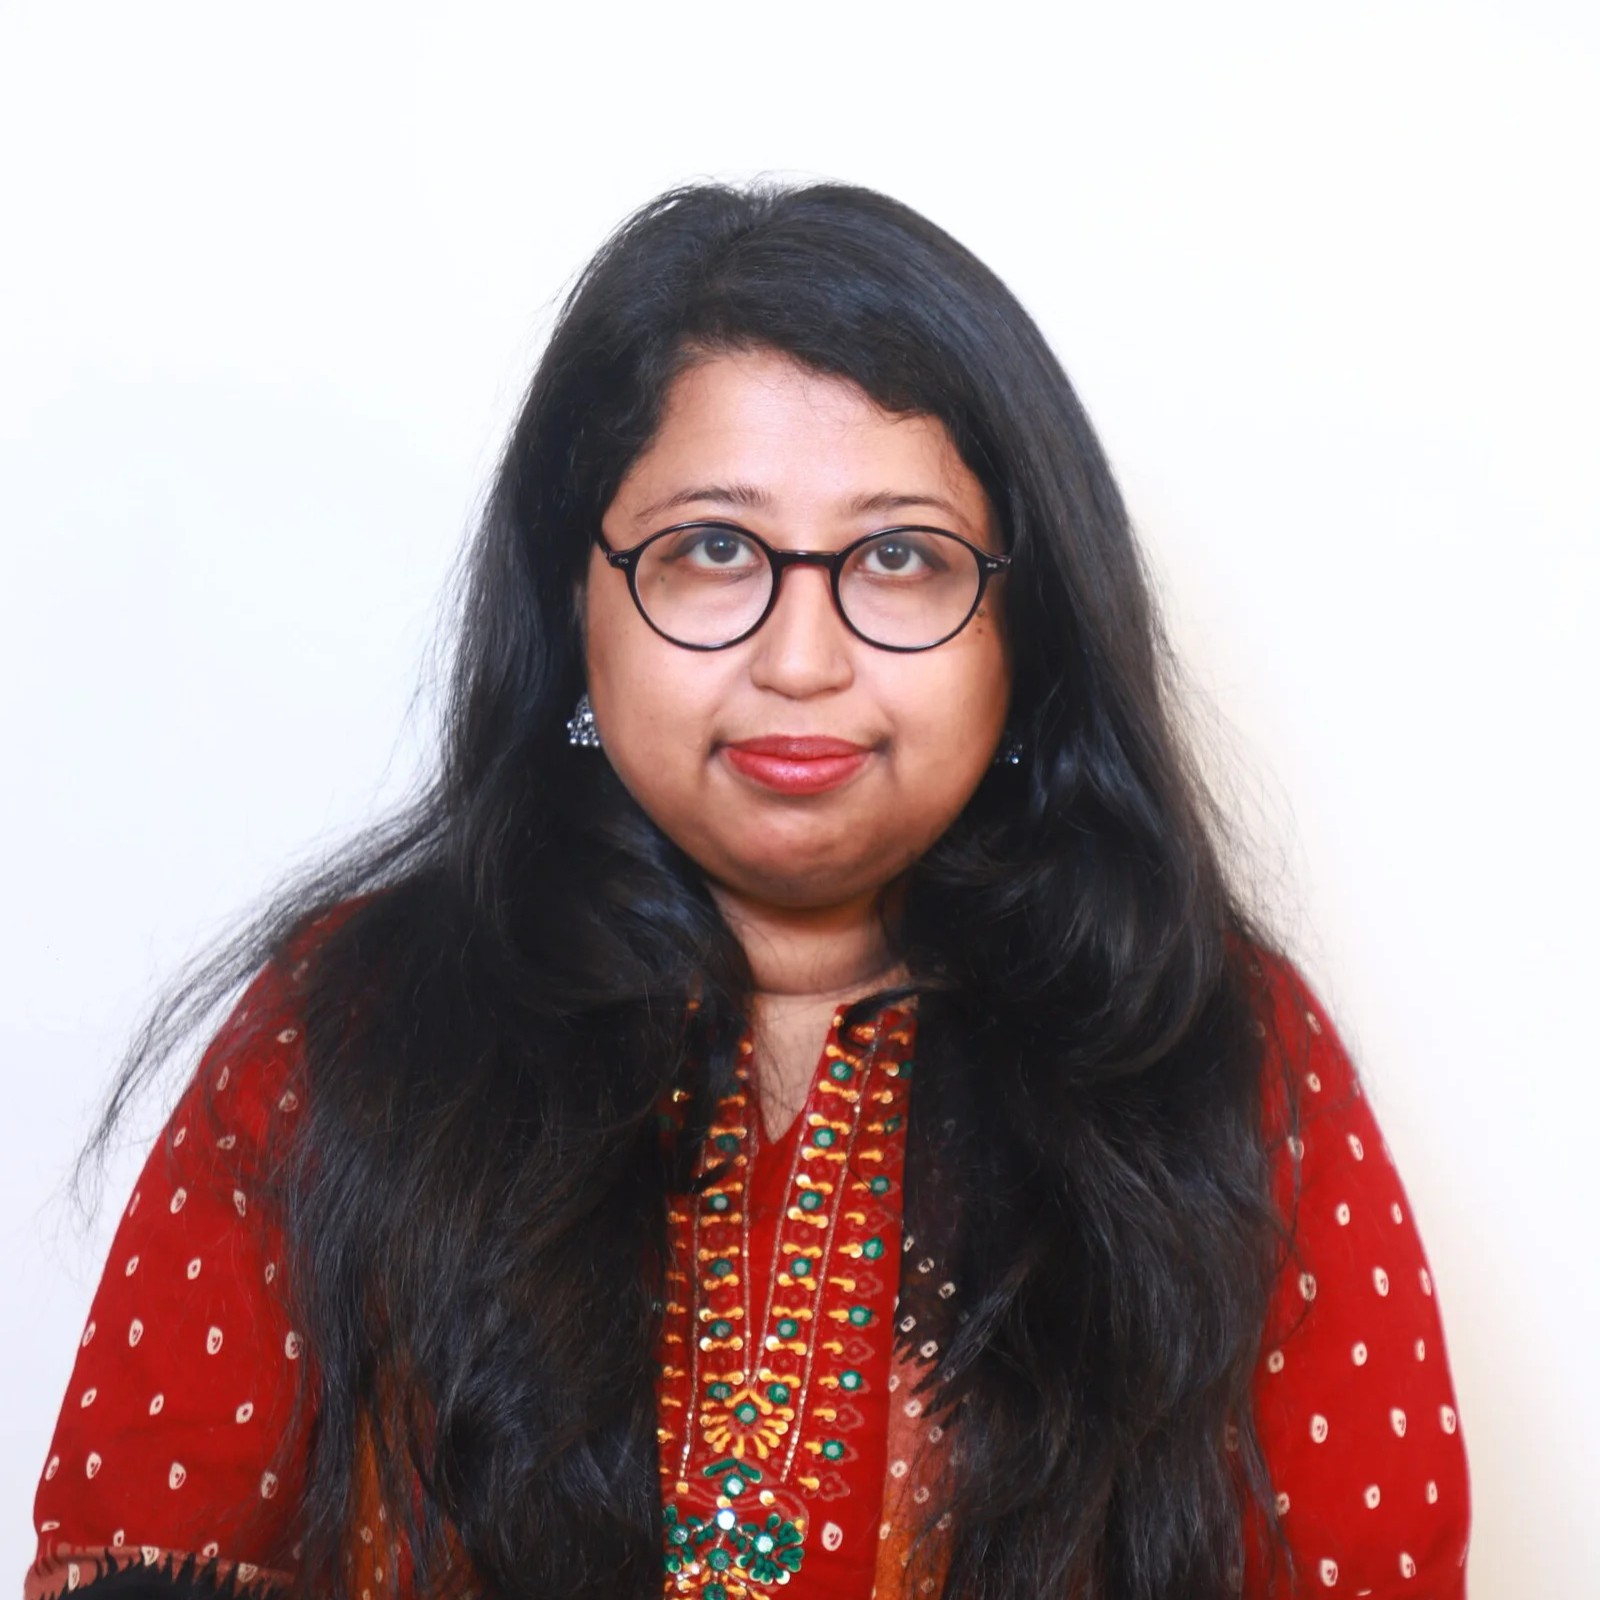
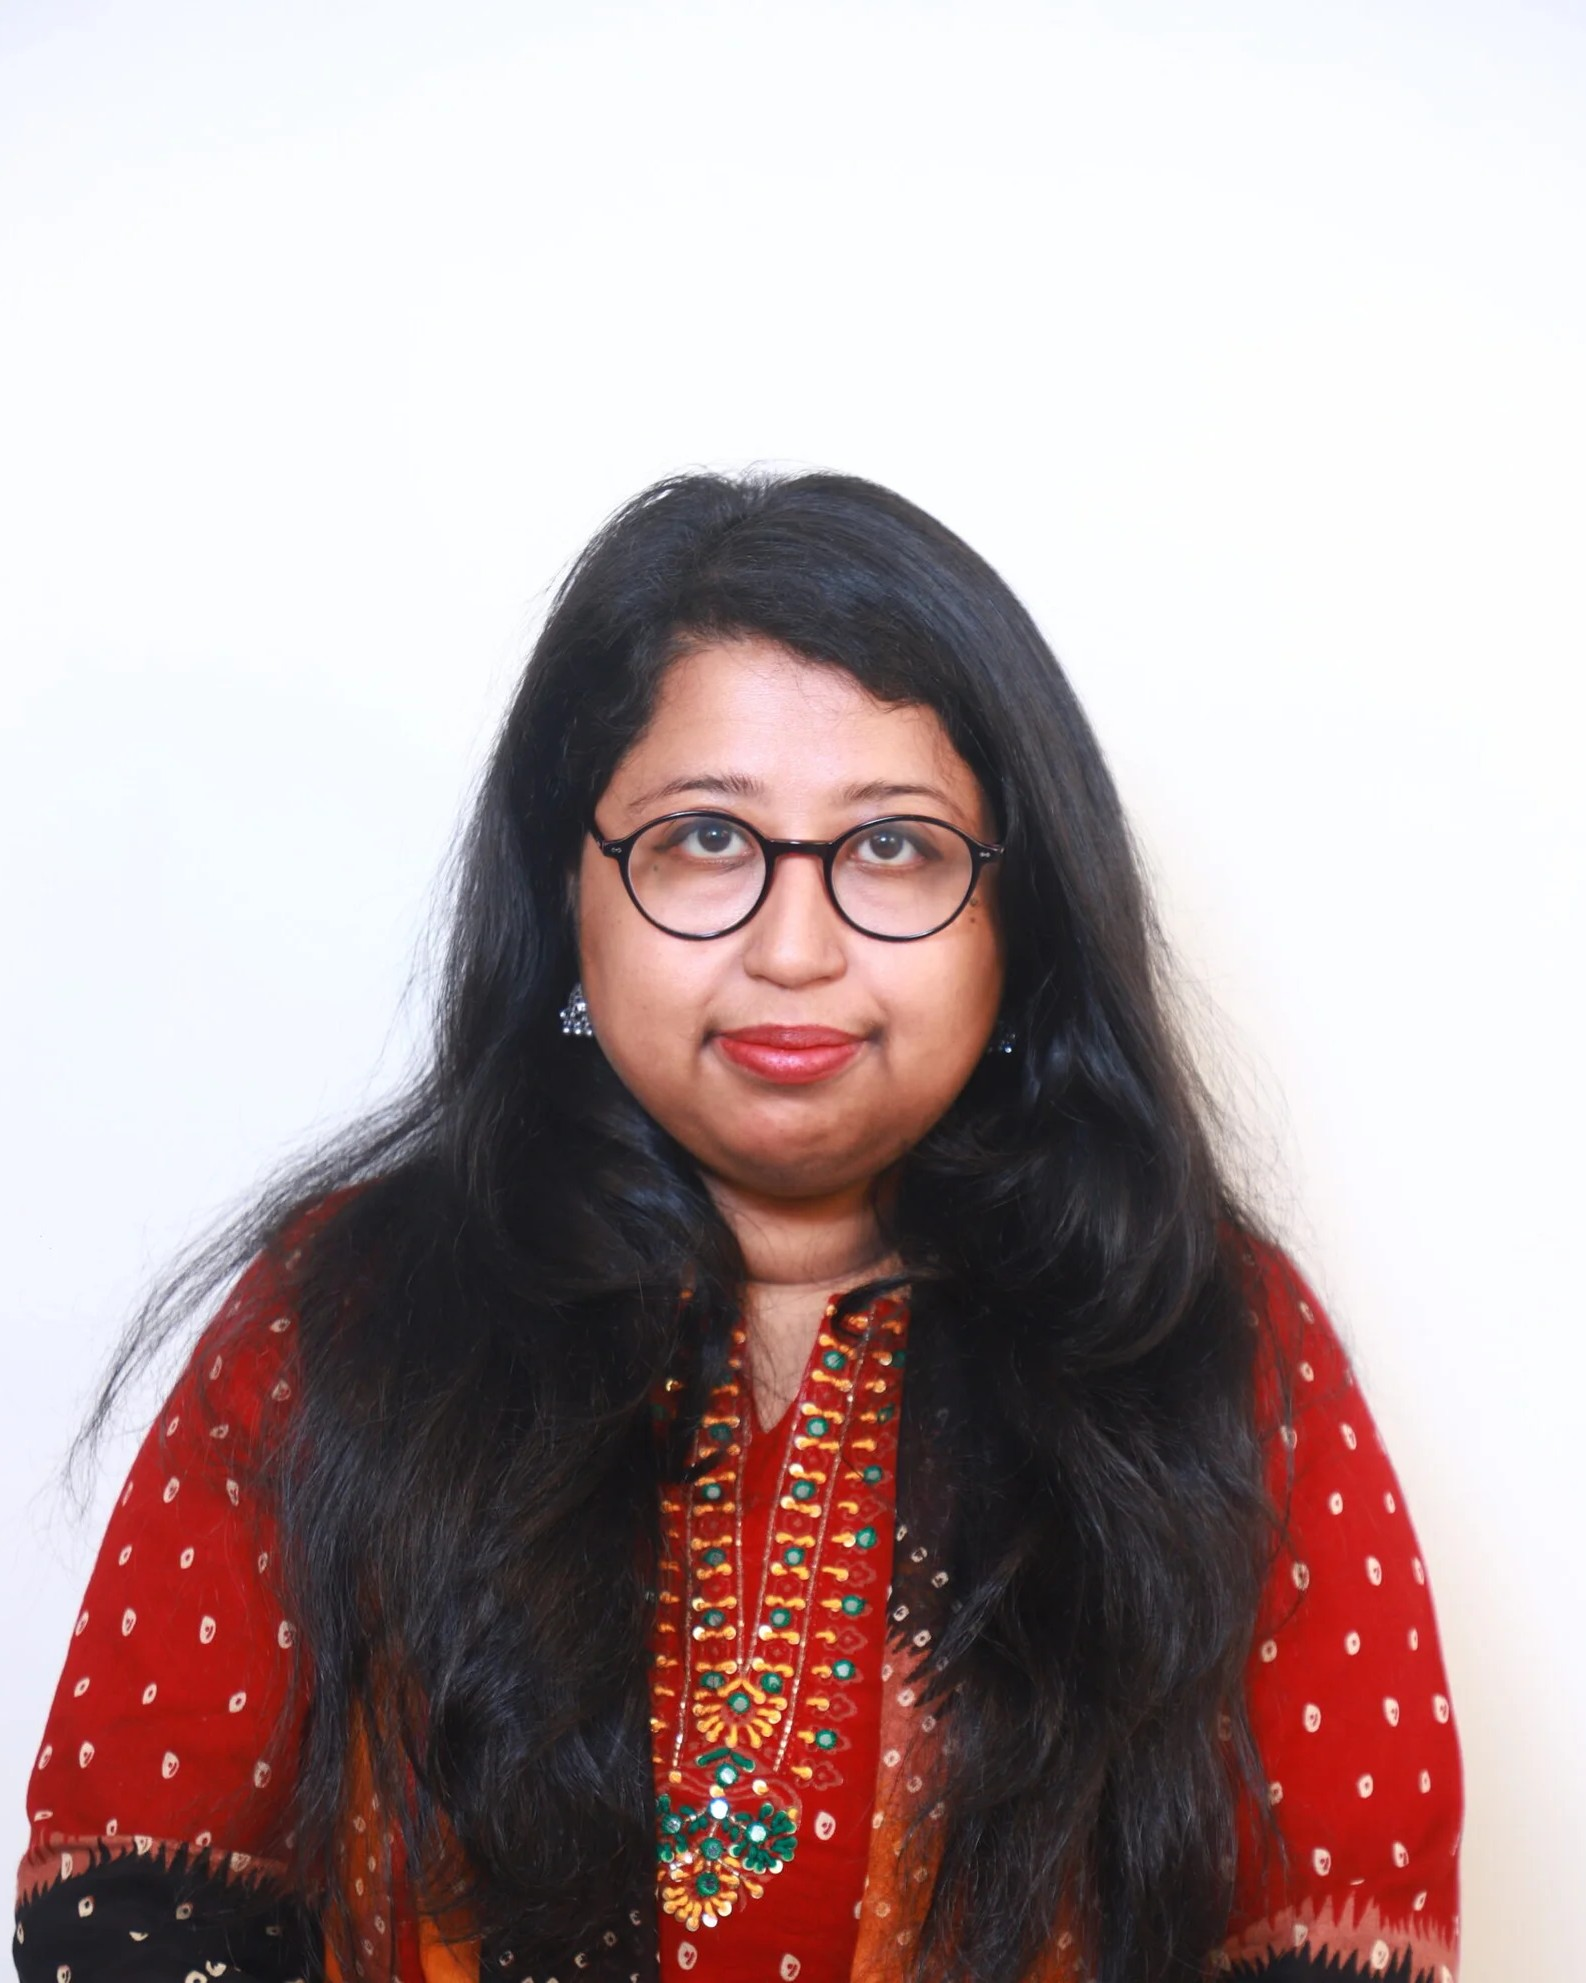
Update team images and add testimonials
Replaced and added new team member images in both JPG and WEBP formats. Updated image references in index.html for team members, and added multiple new testimonial entries for club members and secretaries.

Changed region(s): [[0.0, 0.0938, 0.9269, 1.0]]

diff --git a/Computer Club/index.html b/Computer Club/index.html
@@ -356,7 +356,7 @@
                 <div class="col-lg-3 col-md-6 wow fadeInUp" data-wow-delay="0.1s">
                     <div class="team-item bg-light">
                         <div class="overflow-hidden">
-                            <img class="img-fluid" src="assets/img/sai.jpg" alt="">
+                            <img class="img-fluid" src="assets/img/saiful.jpg" alt="">
                         </div>
                         <div class="position-relative d-flex justify-content-center" style="margin-top: -23px;">
                             <div class="bg-light d-flex justify-content-center pt-2 px-1">
@@ -398,7 +398,7 @@
                 <div class="col-lg-3 col-md-6 wow fadeInUp" data-wow-delay="0.5s">
                     <div class="team-item bg-light">
                         <div class="overflow-hidden">
-                            <img class="img-fluid" src="assets/img/team-3.jpg" alt="">
+                            <img class="img-fluid" src="assets/img/khorshed.webp" alt="">
                         </div>
                         <div class="position-relative d-flex justify-content-center" style="margin-top: -23px;">
                             <div class="bg-light d-flex justify-content-center pt-2 px-1">
@@ -419,7 +419,7 @@
                 <div class="col-lg-3 col-md-6 wow fadeInUp" data-wow-delay="0.7s">
                     <div class="team-item bg-light">
                         <div class="overflow-hidden">
-                            <img class="img-fluid" src="assets/img/team-4.jpg" alt="">
+                            <img class="img-fluid" src="assets/img/nafisa.jpg" alt="">
                         </div>
                         <div class="position-relative d-flex justify-content-center" style="margin-top: -23px;">
                             <div class="bg-light d-flex justify-content-center pt-2 px-1">
@@ -539,6 +539,103 @@
                     <p class="mb-0">I Love my Club.</p>
                     </div>
                 </div>
+                <div class="testimonial-item text-center">
+                    <img class="border rounded-circle p-2 mx-auto mb-3" src="assets/img/testimonial-3.jpg" style="width: 80px; height: 80px;">
+                    <h5 class="mb-0">Sukla Topoti Shaha Prome</h5>
+                    <p>Secretary (Cultural)</p>
+                    <div class="testimonial-text bg-light text-center p-4">
+                    <p class="mb-0">I Love my Club.</p>
+                    </div>
+                </div>
+                <div class="testimonial-item text-center">
+                    <img class="border rounded-circle p-2 mx-auto mb-3" src="assets/img/testimonial-3.jpg" style="width: 80px; height: 80px;">
+                    <h5 class="mb-0">Atika Islam</h5>
+                    <p>Assistent Secretary (Cultural)</p>
+                    <div class="testimonial-text bg-light text-center p-4">
+                    <p class="mb-0">I Love my Club.</p>
+                    </div>
+                </div>
+                <div class="testimonial-item text-center">
+                    <img class="border rounded-circle p-2 mx-auto mb-3" src="assets/img/testimonial-3.jpg" style="width: 80px; height: 80px;">
+                    <h5 class="mb-0">Minhaz Morshed Chowdhury</h5>
+                    <p>Secretary (Technology & Design)</p>
+                    <div class="testimonial-text bg-light text-center p-4">
+                    <p class="mb-0">I Love my Club.</p>
+                    </div>
+                </div>
+                <div class="testimonial-item text-center">
+                    <img class="border rounded-circle p-2 mx-auto mb-3" src="assets/img/testimonial-3.jpg" style="width: 80px; height: 80px;">
+                    <h5 class="mb-0">Durjoy Das</h5>
+                    <p>Assistent Secretary (Technology & Design)</p>
+                    <div class="testimonial-text bg-light text-center p-4">
+                    <p class="mb-0">I Love my Club.</p>
+                    </div>
+                </div>
+                <div class="testimonial-item text-center">
+                    <img class="border rounded-circle p-2 mx-auto mb-3" src="assets/img/testimonial-3.jpg" style="width: 80px; height: 80px;">
+                    <h5 class="mb-0">Sazzad Jelani</h5>
+                    <p>Secretary (Decoration)</p>
+                    <div class="testimonial-text bg-light text-center p-4">
+                    <p class="mb-0">I Love my Club.</p>
+                    </div>
+                </div>
+                <div class="testimonial-item text-center">
+                    <img class="border rounded-circle p-2 mx-auto mb-3" src="assets/img/testimonial-3.jpg" style="width: 80px; height: 80px;">
+                    <h5 class="mb-0">Salma Haque Tithi</h5>
+                    <p>Assistent Secretary (Decoration)</p>
+                    <div class="testimonial-text bg-light text-center p-4">
+                    <p class="mb-0">I Love my Club.</p>
+                    </div>
+                </div>
+                <div class="testimonial-item text-center">
+                    <img class="border rounded-circle p-2 mx-auto mb-3" src="assets/img/testimonial-3.jpg" style="width: 80px; height: 80px;">
+                    <h5 class="mb-0">Jerry Jeriomio Joydhor</h5>
+                    <p>Executive Member</p>
+                    <div class="testimonial-text bg-light text-center p-4">
+                    <p class="mb-0">I Love my Club.</p>
+                    </div>
+                </div>
+                <div class="testimonial-item text-center">
+                    <img class="border rounded-circle p-2 mx-auto mb-3" src="assets/img/testimonial-3.jpg" style="width: 80px; height: 80px;">
+                    <h5 class="mb-0">Alif Khan Lisan</h5>
+                    <p>Executive Member</p>
+                    <div class="testimonial-text bg-light text-center p-4">
+                    <p class="mb-0">I Love my Club.</p>
+                    </div>
+                </div>
+                <div class="testimonial-item text-center">
+                    <img class="border rounded-circle p-2 mx-auto mb-3" src="assets/img/testimonial-3.jpg" style="width: 80px; height: 80px;">
+                    <h5 class="mb-0">Lisa Maria Rozario</h5>
+                    <p>Executive Member</p>
+                    <div class="testimonial-text bg-light text-center p-4">
+                    <p class="mb-0">I Love my Club.</p>
+                    </div>
+                </div>
+                <div class="testimonial-item text-center">
+                    <img class="border rounded-circle p-2 mx-auto mb-3" src="assets/img/testimonial-3.jpg" style="width: 80px; height: 80px;">
+                    <h5 class="mb-0">Arpita Roy</h5>
+                    <p>Executive Member</p>
+                    <div class="testimonial-text bg-light text-center p-4">
+                    <p class="mb-0">I Love my Club.</p>
+                    </div>
+                </div>
+                <div class="testimonial-item text-center">
+                    <img class="border rounded-circle p-2 mx-auto mb-3" src="assets/img/testimonial-3.jpg" style="width: 80px; height: 80px;">
+                    <h5 class="mb-0">Tahasin Ahamed</h5>
+                    <p>Executive Member</p>
+                    <div class="testimonial-text bg-light text-center p-4">
+                    <p class="mb-0">I Love my Club.</p>
+                    </div>
+                </div>
+                <div class="testimonial-item text-center">
+                    <img class="border rounded-circle p-2 mx-auto mb-3" src="assets/img/testimonial-3.jpg" style="width: 80px; height: 80px;">
+                    <h5 class="mb-0">Shantashre Bhattacharjee</h5>
+                    <p>Executive Member</p>
+                    <div class="testimonial-text bg-light text-center p-4">
+                    <p class="mb-0">I Love my Club.</p>
+                    </div>
+                </div>
+                 
             </div>
         </div>
     </div>
